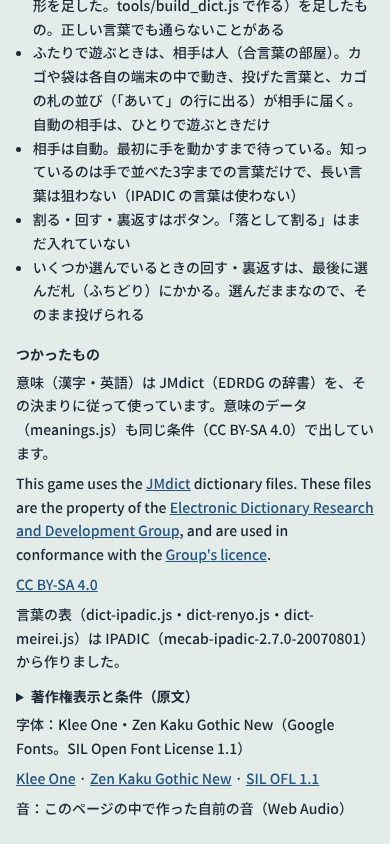
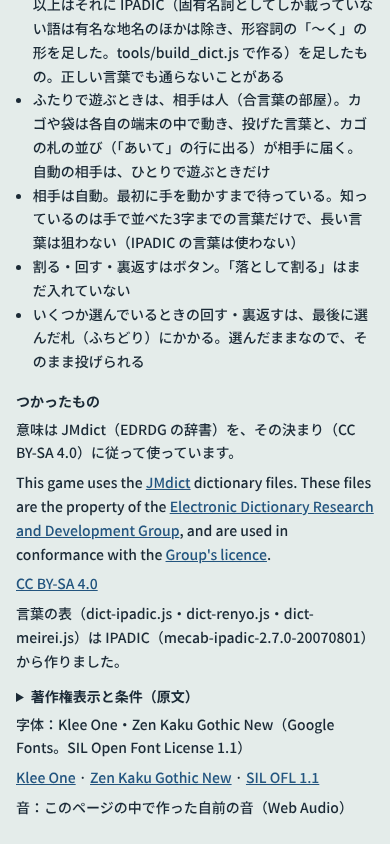
HB-081（R-038）: 画像を撮り直す・SESSION_STATE の文を直す
Claude-Session: https://claude.ai/code/session_01CHAiRVSnv5JBHYYJwNi2rS

diff --git a/docs/SESSION_STATE.md b/docs/SESSION_STATE.md
@@ -169,7 +169,7 @@
 ## 未確定項目
 
 - 編集の仮置き（R-038。HB-081）：「つかったもの」の日本語の添え・字体と音の行・한국어の訳・見出し・下の一行の文と見た目（遊ぶ画面では下の並びが 35px 動いた。数は R-038）。字体（Klee One・Zen Kaku Gothic New）を SIL OFL 1.1 としたのは見込み（頁では確かめていない）。JMdict の英語の一文は変えていない
-- 提案（HB-081）：EDRDG の決まりの「データを新しく保つ（Web の辞書は月に1度以上）」は、いまの meanings.yml（毎日）で足りる見込みだが、JMdict の原本を毎回取り直しているかは見ていない（meanings.yml は毎日 EDRDG から JMdict_e を取り直すが、意味の行が変わらないとコミットしないので、meanings.js 頭の作成日は古いまま残りうる）。作者・相談チャットが見る
+- 提案（HB-081）：EDRDG の決まりの「データを新しく保つ（Web の辞書は月に1度以上）」は、いまの meanings.yml（毎日）で足りる見込みだが、JMdict の原本は毎日取り直している（meanings.yml は毎日 EDRDG から JMdict_e を取り直すが、意味の行が変わらないとコミットしないので、meanings.js 頭の作成日は古いまま残りうる）。作者・相談チャットが見る
 - 編集の仮置き（D-105。HB-080）：向かい合わせの色の濃さ（--face-op 24%・--face-me 12%・カゴは --face-me の 0.7 倍）
 - 編集の仮置き（D-102。HB-076）：ふたりでのボタンの English「Two players」・한국어「둘이서 (대인전)」、もう一度押すとしまう動き、括弧を全角にしたこと
 - 編集の仮置き（D-101。HB-075）：札の選び方（割る＝割れる札から・回す/裏返す＝変わる札から。足りないときだけ変わらない札）／優先の切り替えは3つ別々（attack-words.js の prefer）／技で変わった札の道すじ・印は作り直す（★に数えない。割った2枚は割る前の札の写しだけ持つ）／CPU の札は向きずれにしない・CPU の TURN と同じ変わり方だけ（＞・し⇄⊂ は変わる札に数えない）／動いている間は自分の手を止める／エフェクトの数字（ATK_FX）／投げた側でも音を鳴らす（ATK_FX.throwerSound）／ログの言い方
